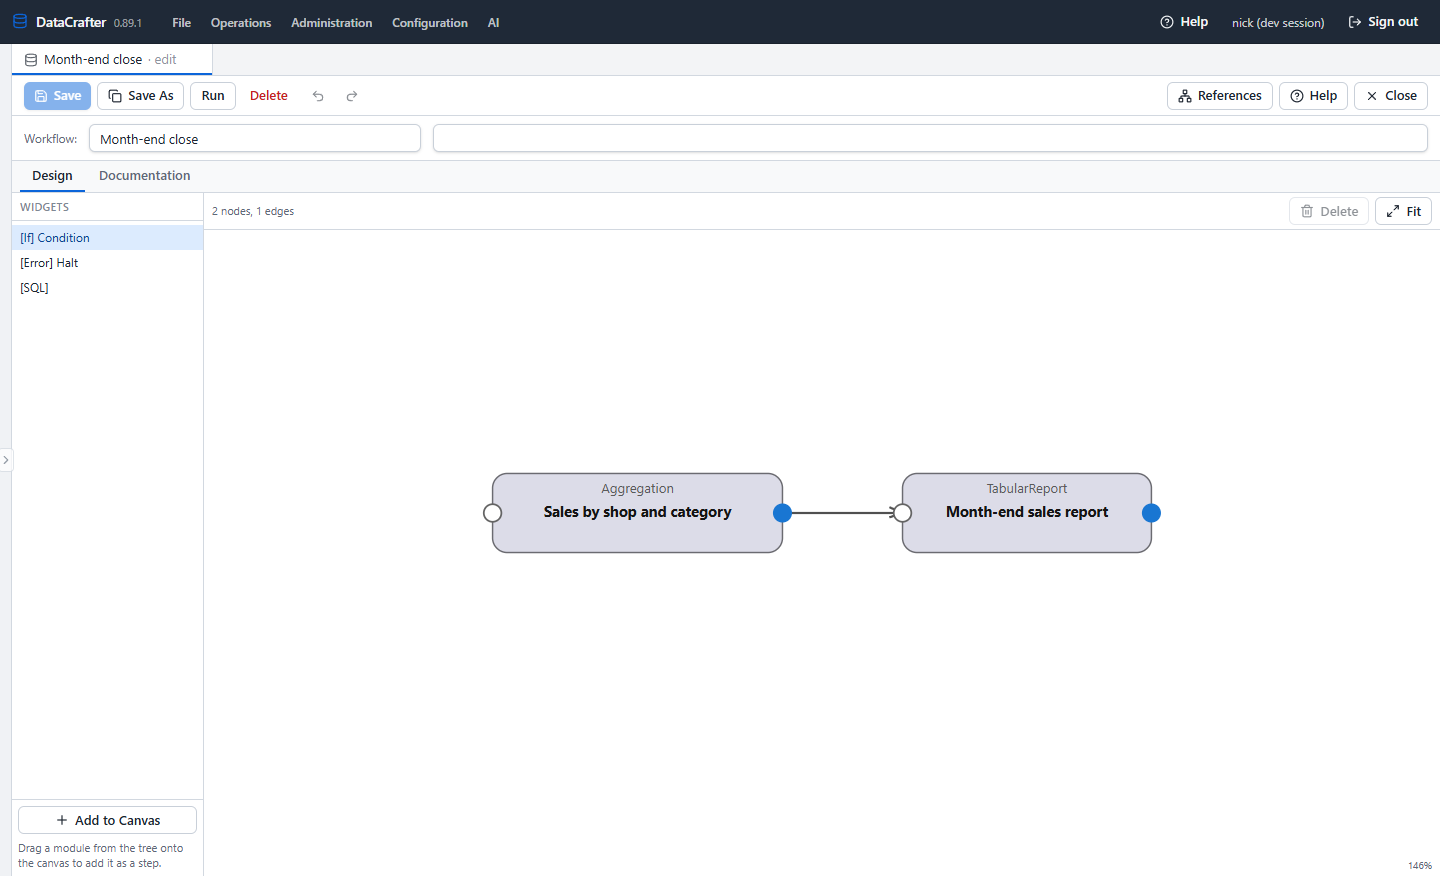
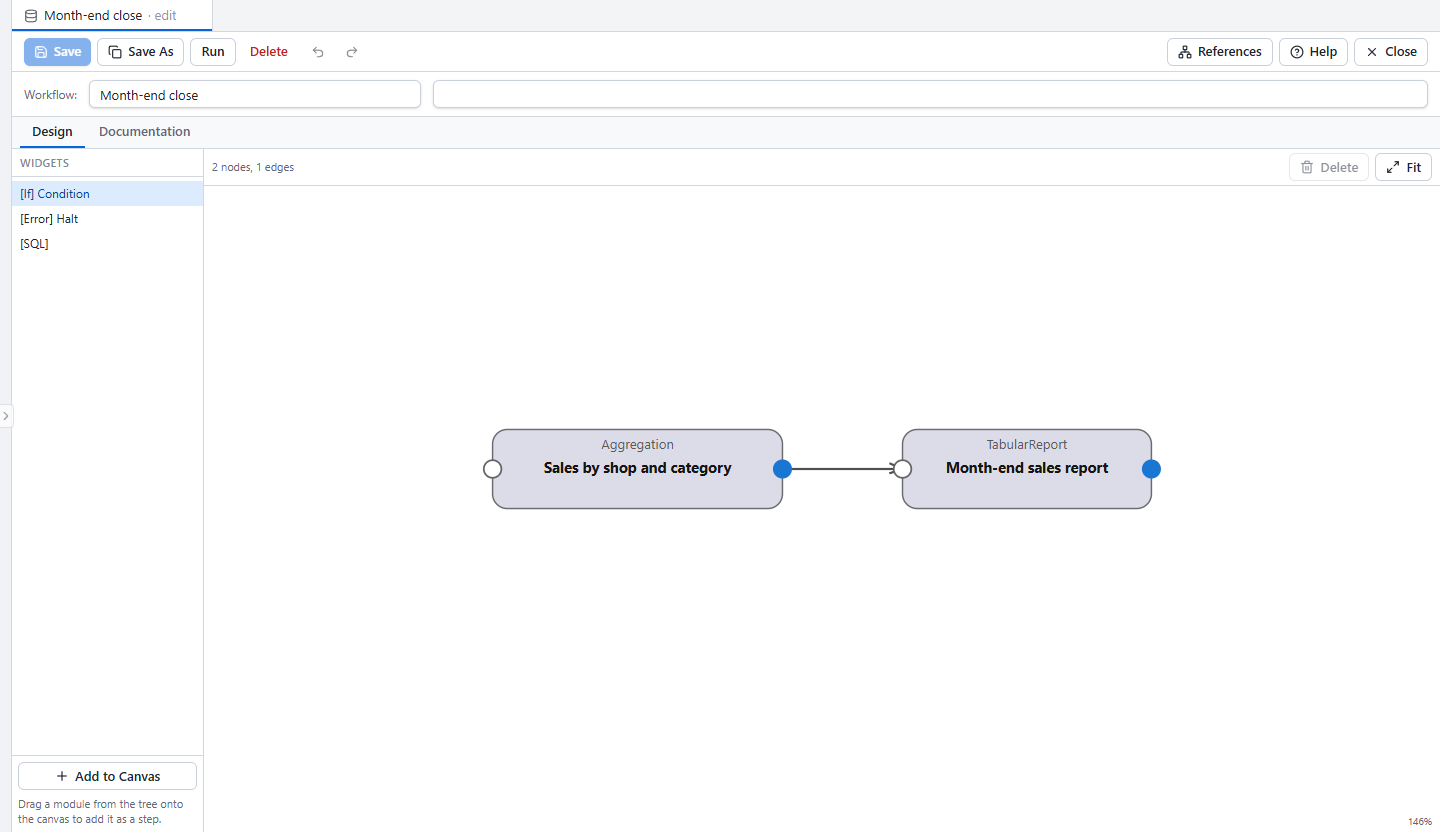
fix(showcase): crop the sign-in label and the stray preset row from the screenshots
Three platform shots and entry 001's Workflow shot showed the top bar, whose
"nick (dev session)" label names the founder and reveals a dev sign-in. The
top bar is cropped off each. The Schedule shot showed a Preset box reading
"Daily at 2 : 0" beside a monthly cron, which contradicts it; the shot now
holds only the next five runs, and its caption states the rule instead.

Changed region(s): [[0.0, 0.0, 1.0, 0.3438], [0.3125, 0.5, 0.8125, 0.6562], [0.0, 0.9062, 0.125, 1.0]]

diff --git a/showcase/platform/entry.md b/showcase/platform/entry.md
@@ -12,7 +12,7 @@ media:
   - file: 03-data-model.png
     alt: The Sales with products data model in view. Each sale is joined to its product's name, category and price, 720 rows for September.
   - file: 04-schedule-next-runs.png
-    alt: The Schedule's trigger. It runs at 6 am on the first of each month, Brisbane time, and lists its next five runs.
+    alt: The Schedule's next five runs. It runs the Workflow at 6 am on the first of each month, Brisbane time.
   - file: 05-run-record.png
     alt: The log of one run started from the Scheduler. Each step starts and ends, and the Workflow finishes in SUCCESS.
   - file: 06-report.png
